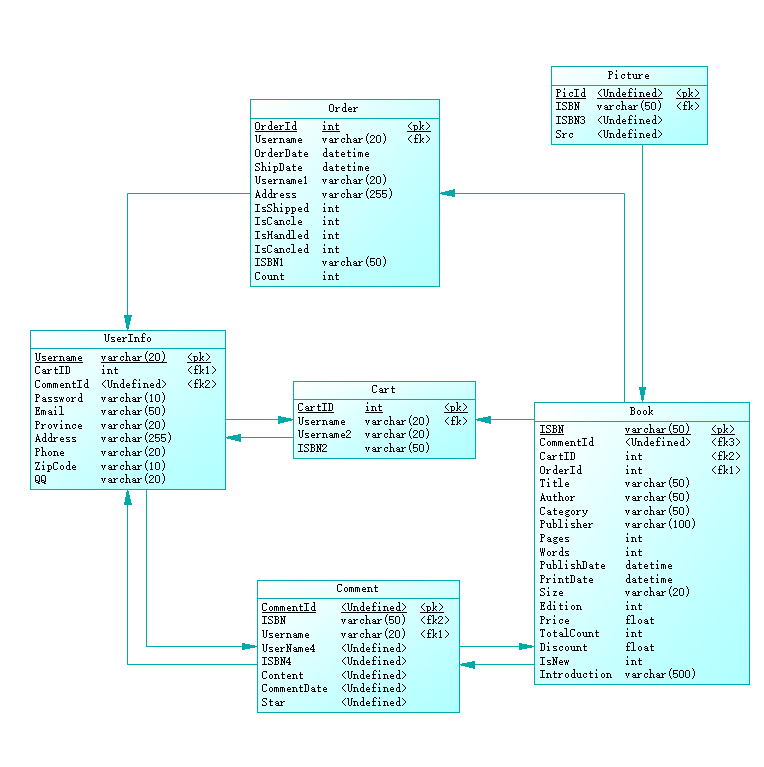
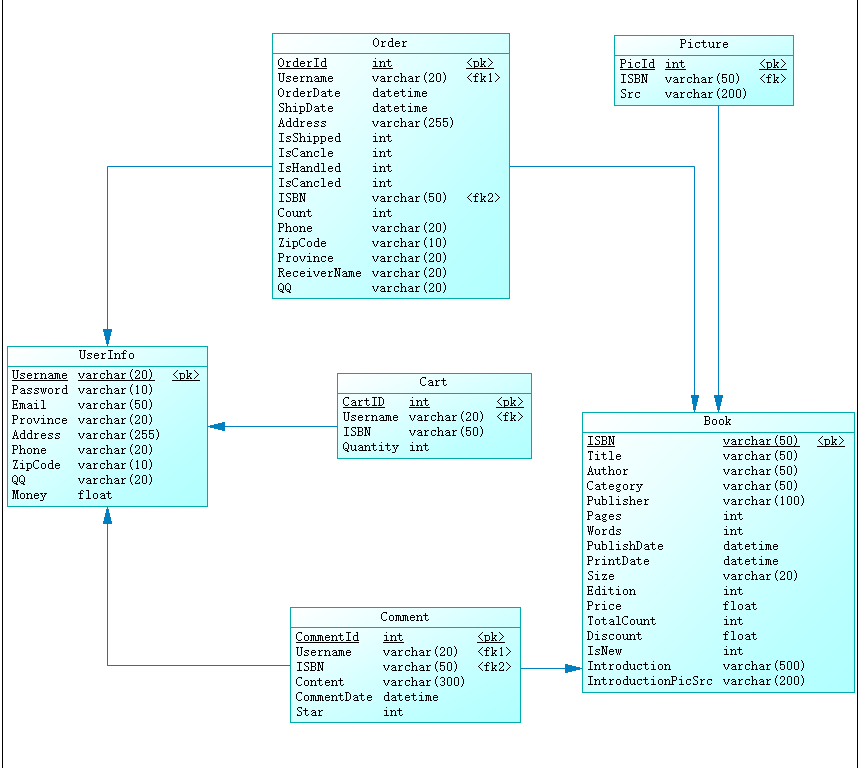
楠哥补全

Changed region(s): [[0.0, 0.0, 1.0, 1.0], [0.301, 0.03, 0.6021, 0.3898], [0.1204, 0.2099, 0.1505, 0.2399]]

diff --git a/软件设计说明书/软件设计说明书.md b/软件设计说明书/软件设计说明书.md
@@ -62,7 +62,7 @@
 
    数据库：MySQL-8.0.15
 
-   Web服务器：
+   Web服务器：nginx、uWSGI
 
 2. 客户机
 
@@ -159,7 +159,7 @@
 </table>
 
 
-## 3.2 数据库中的表关系(任婷伊画图)
+## 3.2 数据库中的表关系
 
 ![表关系图](assets/db.png)
 
@@ -176,47 +176,53 @@
 |  6   |   Phone    |    电话    | varchar(20)  |      是      |           |
 |  7   |  ZipCode   |    邮编    | varchar(10)  |      是      |           |
 |  8   |     QQ     |   QQ号码   | varchar(20)  |      是      |           |
+|  9   |   Money    |  账户余额  |    float     |      否      |           |
 
-| 序号 |  英文字段名  | 中文字段名 |   数据类型   | 是否允许为空 | 主键/外键 |
-| :--: | :----------: | :--------: | :----------: | :----------: | :-------: |
-|  1   |     ISBN     |    书号    | varchar(50)  |      否      |   主键    |
-|  2   |    Title     |    书名    | varchar(50)  |      否      |           |
-|  3   |    Author    |    坐着    | varchar(50)  |      否      |           |
-|  4   |   Category   |    类别    | varchar(50)  |      否      |           |
-|  5   |  Publisher   |   出版社   | varchar(100) |      否      |           |
-|  6   |    Pages     |    页数    |     int      |      是      |           |
-|  7   |    Words     |    字数    |     int      |      是      |           |
-|  8   | PublishDate  |  出版日期  |   datetime   |      是      |           |
-|  9   |  PrintDate   |  印刷日期  |   datetime   |      是      |           |
-|  10  |     Size     |    开本    | varchar(20)  |      是      |           |
-|  11  |   Edition    |    版次    |     int      |      是      |           |
-|  12  |    Price     |    价格    |    float     |      否      |           |
-|  13  |  TotalCount  |    库存    |     int      |      否      |           |
-|  14  |   Discount   |    折扣    |    float     |      是      |           |
-|  15  |    IsNew     | 是否是新品 |     int      |      是      |           |
-|  16  | Introduction |    介绍    | varchar(500) |      否      |           |
+| 序号 |     英文字段名     |      中文字段名      |   数据类型   | 是否允许为空 | 主键/外键 |
+| :--: | :----------------: | :------------------: | :----------: | :----------: | :-------: |
+|  1   |        ISBN        |         书号         | varchar(50)  |      否      |   主键    |
+|  2   |       Title        |         书名         | varchar(50)  |      否      |           |
+|  3   |       Author       |         坐着         | varchar(50)  |      否      |           |
+|  4   |      Category      |         类别         | varchar(50)  |      否      |           |
+|  5   |     Publisher      |        出版社        | varchar(100) |      否      |           |
+|  6   |       Pages        |         页数         |     int      |      是      |           |
+|  7   |       Words        |         字数         |     int      |      是      |           |
+|  8   |    PublishDate     |       出版日期       |   datetime   |      是      |           |
+|  9   |     PrintDate      |       印刷日期       |   datetime   |      是      |           |
+|  10  |        Size        |         开本         | varchar(20)  |      是      |           |
+|  11  |      Edition       |         版次         |     int      |      是      |           |
+|  12  |       Price        |         价格         |    float     |      否      |           |
+|  13  |     TotalCount     |         库存         |     int      |      否      |           |
+|  14  |      Discount      |         折扣         |    float     |      是      |           |
+|  15  |       IsNew        |      是否是新品      |     int      |      是      |           |
+|  16  |    Introduction    |         介绍         | varchar(500) |      否      |           |
+|  17  | IntroductionPicSrc | 介绍商品的长图的路径 | varchar(200) |      否      |           |
 
-
-
-| 序号 | 英文字段名 |           中文字段名           |   数据类型   | 是否允许为空 | 主键/外键 |
-| :--: | :--------: | :----------------------------: | :----------: | :----------: | :-------: |
-|  1   |  OrderId   |             订单号             |     int      |      否      |   主键    |
-|  2   | OrderDate  |            下单日期            |   datetime   |      否      |           |
-|  3   |  ShipDate  |            发货日期            |   datetime   |      否      |           |
-|  4   |  UserName  |           会员用户名           | varchar(20)  |      否      |   外键    |
-|  5   |  Address   |            送货地址            | varchar(255) |      否      |           |
-|  6   | IsShipped  |          订单是否送出          |     int      |      否      |           |
-|  7   |  IsCancle  |      用户是否申请取消订单      |     int      |      否      |           |
-|  8   | IsHandled  | 管理员是否处理了取消订单的申请 |     int      |      否      |           |
-|  9   | IsCancled  |       订单是否被成功取消       |     int      |      否      |           |
-|  10  |    ISBN    |              书号              | varchar(50)  |      否      |   外键    |
-|  11  |   Count    |           订书的数目           |     int      |      否      |           |
+| 序号 |  英文字段名  |           中文字段名           |   数据类型   | 是否允许为空 | 主键/外键 |
+| :--: | :----------: | :----------------------------: | :----------: | :----------: | :-------: |
+|  1   |   OrderId    |             订单号             |     int      |      否      |   主键    |
+|  2   |  OrderDate   |            下单日期            |   datetime   |      否      |           |
+|  3   |   ShipDate   |            发货日期            |   datetime   |      否      |           |
+|  4   |   UserName   |         下单会员用户名         | varchar(20)  |      否      |   外键    |
+|  5   |   Address    |            送货地址            | varchar(255) |      否      |           |
+|  6   |  IsShipped   |          订单是否送出          |     int      |      否      |           |
+|  7   |   IsCancle   |      用户是否申请取消订单      |     int      |      否      |           |
+|  8   |  IsHandled   | 管理员是否处理了取消订单的申请 |     int      |      否      |           |
+|  9   |  IsCancled   |       订单是否被成功取消       |     int      |      否      |           |
+|  10  |     ISBN     |              书号              | varchar(50)  |      否      |   外键    |
+|  11  |    Count     |           订书的数目           |     int      |      否      |           |
+|  12  |    Phone     |         收货人电话号码         | varchar(20)  |      否      |           |
+|  13  |   ZipCode    |           收货人邮编           | varchar(10)  |      否      |           |
+|  14  |   Province   |           收货人省份           | varchar(20)  |      否      |           |
+|  15  |      QQ      |           收货人QQ号           | varchar(20)  |      是      |           |
+|  16  | ReceiverName |           收货人姓名           | varchar(20)  |      否      |           |
 
 | 序号 | 英文字段名 |   中文字段名   |  数据类型   | 是否允许为空 | 主键/外键 |
 | :--: | :--------: | :------------: | :---------: | :----------: | :-------: |
 |  1   |   CartID   | 购物车信息编号 |     int     |      否      |   主键    |
 |  2   |  UserName  |   会员用户名   | varchar(20) |      否      |   外键    |
 |  3   |    ISBN    |      书号      | varchar(50) |      否      |   外键    |
+|  4   |  Quantity  |    购物数量    |     int     |      否      |           |
 
 | 序号 | 英文字段名 |  中文字段名  |   数据类型   | 是否允许为空 | 主键/外键 |
 | :--: | :--------: | :----------: | :----------: | :----------: | :-------: |
@@ -235,9 +241,73 @@
 
 
 
-# 4. 典型的子系统设计(郭婉茹完成)
+# 4. 典型的子系统设计
 
-调一个你觉得好写的子系统仿照我发在群里的文档写即可
+本节以会员购书系统和书评管理系统两个典型功能子系统为例，从功能子系统的类属性方法设计、功能活动设计、处理时序设计三个层面进行详细设计描述。 
+
+## 4.1 会员购书系统设计
+
+### 4.1.1 类设计
+
+该功能系统用于实现会员购买图书、修改购物车中图书的数量、添加图书到购物车、删除购物车中的图书、查看购物车中的图书和清空购物车等操作，，类图设计如图$4. 1 .1$所示.
+
+![会员购书类图](assets/会员购书类图.bmp)
+
+图$ 4 .1 .1$ 会员购书系统类图
+
+### 4.1.2 活动图设计
+
+以会员购书系统中会员删除购物车中的图书的活动图为例说明，会员发起删除图书操作请求后，系统执行删除购物车里的图书操作，如果删除成功，系统自动返回原界面，否则系统处理异常并给出相应的提示信息。该功能模块活动图如图$4.1.2$所示。
+
+![删除购物车中的图书](assets/删除购物车中的图书-1558014417835.bmp)
+
+图$4.1 .2$ 删除购物车中的图书活动图
+
+### 4.1.3 时序图设计
+
+本节以删除购物车中的图书功能的时序图为例进行说明，用户发起删除图书操作的请求后，系统先执行删除图书操作，然后根据删除成功与否返回相应的执行结果信息。删除图书功能的活动图如$4 .2 .3$所示。
+
+![删除图书顺序图](assets/删除图书顺序图.bmp)
+
+图$4 .2 .3$ 删除图书活动图
+
+## 4.2 书评管理系统设计
+
+### 4.2.1 类设计
+
+该功能系统用于实现对书评进行发表、评论、删除、查看等操作，类图设计如图$4.2 .1$所示.
+
+![书评系统类图](assets/书评系统类图-1557996080150.bmp)
+
+图$4.2.1$ 书评管理系统类图
+
+### 4.2.2 活动图设计
+
+以书评管理系统中用户发表书评的活动图为例说明，当用户发出发表书评的操作请求后，系统跳转到撰写书评的界面，书评编辑完成后，由用户发出保存书评请求，若保存成功，则书评成功发表，数据库自动更新，界面跳转至书评列表界面，否则发表书评失败，系统给出相应的提示信息并跳转至书评列表界面。该功能模块活动图如图$4.2.2$所示。
+
+![书评系统活动图](assets/书评系统活动图.bmp)
+
+图$4.2.2$ 发表书评活动图
+
+### 4.2.3 时序图设计
+
+图4.2.3、4.2.4、4.2.5、4.2.6分别描绘了用户发表书评、查看书评、评论书评、删除书评的执行序列过程。
+
+![发表书评序列图](assets/发表书评序列图.bmp)
+
+图$4.2.3$ 发表书评序列图
+
+![查看书评序列图](assets/查看书评序列图.bmp)
+
+图$4.2.4$ 查看书评序列图
+
+![评论书评序列图](assets/评论书评序列图.bmp)
+
+图$4.2.5$ 评论书评序列图
+
+![删除书评](assets/删除书评.bmp)
+
+图$4.2.6 $ 删除书评序列图
 
 # 5. 功能模块设计(李楠)
 
@@ -272,88 +342,20 @@
 
 
 
+# 6. ORM模型设计
+
+由于本系统使用了Django框架，所以绝大部分的操作都可以抽象成ORM模型的对象的操作，我们在此介绍一下
 
 
 
-
-# 6. 储存过程设计(任婷伊，卓毅韬)
-
-有六张表，任婷伊1 3 5，卓毅韬2 4 6
-
-1.CollectBook()
-
-功能描述：选择图书
-
-入口参数：@UserID(varchar(20),无默认值)、@BookID(smallint,无默认值)
-
-出口参数：无
-
-伪语言实现：
-
-```SQL
-create procedure CollectBook(@UseID varchar(20), @BookID smallint)
-as
-declare
-@BookWarehouseID smallint
-@QuanZilD smallint
-if @UserID is not null
-    begin
-    insert into User values(@BookWarehouseID,@UserID,@QunZilD,@BookID,'Collect')
-    where @BookWarehouseID=select BookWarehouseID from BookWarehouse
-    end
-return
-```
-
-3.DeleteBook()
-
-功能描述：删除图书
-
-入口参数：@BookID(smallint,无默认值)
-
-出口参数：无
-
-伪语言实现：
-
-```SQL
-create procedure DeleteBook(@BookID smallint)
-as
-if @BookID is not null
-    begin
-    delete from BookWarehouseID
-    where @BookID=BookWarehouseID.BookID
-    end
-return
-```
-
-5.DeleteForum()
-
-功能描述：删除讨论
-
-入口参数：@ForumID(smallint,无默认值)
-
-出口参数：无
-
-伪语言实现：
-
-```SQL
-create procedure DeleteForum(@ForumID smallint)
-as
-if @ForumID is not null
-    begin
-    delete from Forum
-    where @ForumID=Forum.ForumID
-    end
-return
-```
-
-# 7. 接口设计(任婷伊)
+# 7. 接口设计
 ## 7.1 用户接口
-用ASP.NET4.5搭建，提供清晰简洁易用美观的用户界面
+
 ## 7.2 外部接口
-数据存储：本系统设计大量数据的存储及处理，通过ADO.NET与SQL Server2012 进行交互。
+
 ## 7.3 内部接口
-本系统以数据为中心，网站模块均通过ADO.NET与数据库服务器进行交互
-# 8. 角色授权设计(徐奕东)
+
+# 8. 角色授权设计
 
 |    子系统名称    | 管理员 | 会员 | 游客 |
 | :--------------: | :----: | :--: | :--: |
@@ -365,7 +367,7 @@ return
 |   书评管理系统   |   ●    |  ●   |  ○   |
  ●表示有全部权限，○表示享有权限但并非全部权限。
 
-# 9. 系统错误处理(徐奕东)
+# 9. 系统错误处理
 
 ## 9.1出错信息
 1.  对游客、会员输入的各项内容进行有效性、安全性检查，减少错误发生的几率；
@@ -381,7 +383,7 @@ return
 2.  面向数据与面向对象相结合，模块划分符合面向对象思想。  
 3.  在编码过程中注意标识符命名的意义，添加适量注释。 
 
-# 10. 测试计划(徐奕东)
+# 10. 测试计划
 
 测试计划作为本系统的测试指导，测试成员按计划和规定进行测试。本系统的测试将从 单元测试、集成测试、系统测试 3 个方面来设计。 
 
